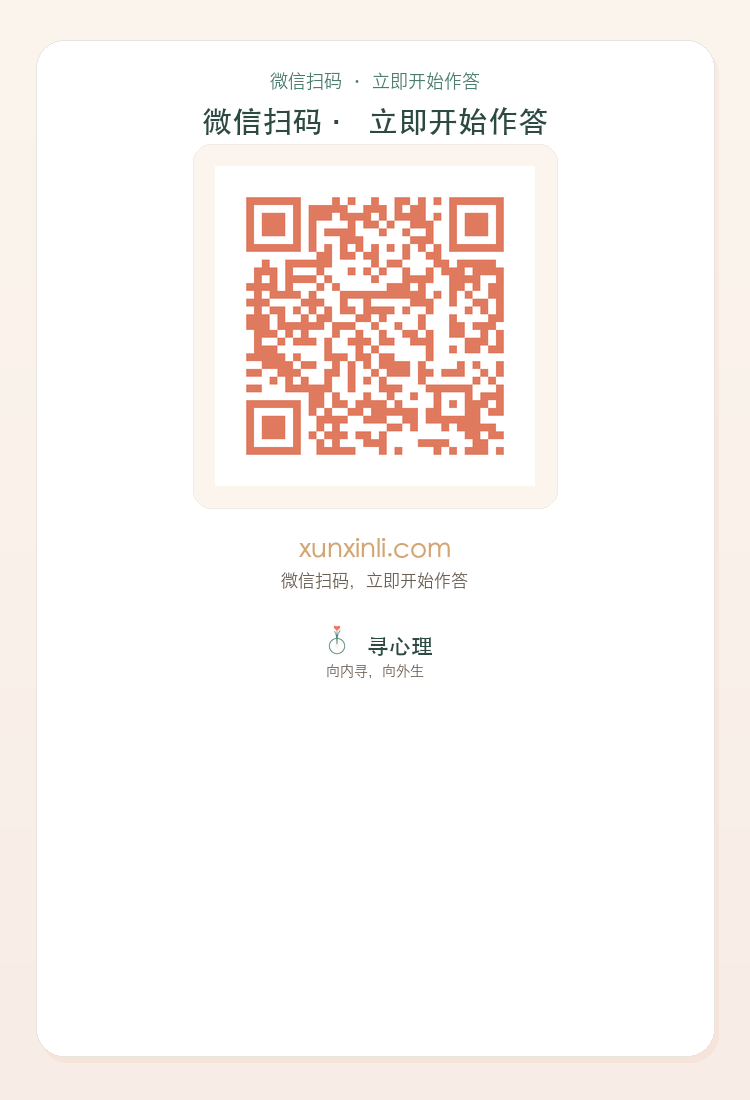
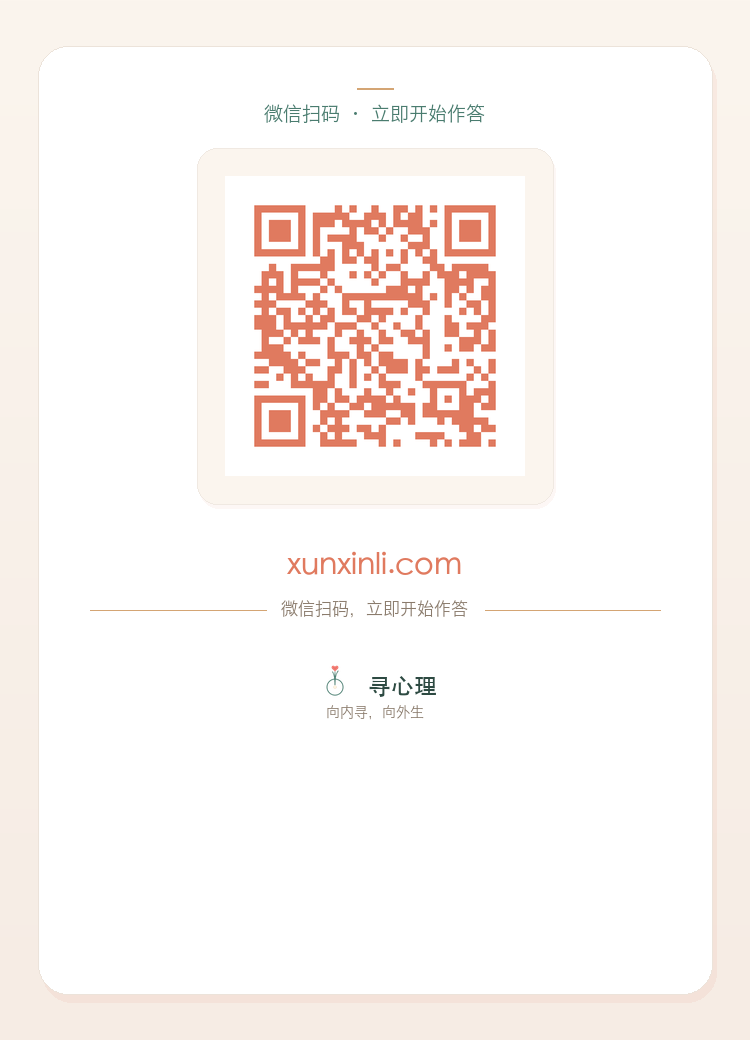
style: 海报v3 去重复标题 + 横线装饰 + 留白均衡
- 删除眉批下方重复的「微信扫码·立即开始作答」大标题
- 眉批上方加铜色短线装饰；提示区加两侧横线「—— 文字 ——」
- 域名改珊瑚暖橙#E07A5F（更温暖）；二维码底加微阴影
- 整体内容垂直居中于卡片内，留白均衡

diff --git a/gen_poster_final.py b/gen_poster_final.py
@@ -1,199 +1,151 @@
 #!/usr/bin/env python3
 """
-寻心理问卷海报图片 v2（PNG）
-布局参考 poster-survey-xunxinli.html 卡片式设计，文案按用户要求调整：
-  ① 眉批 → 「微信扫码 · 立即开始作答」（官网绿色）
-  ② 标题 → 「微信扫码 · 立即开始作答」（大字深色）
-  ③ 大二维码（圆角暖白底）
-  ④ 域名 → xunxinli.com（铜色加粗）
-  ⑤ 提示 → 微信扫码，立即开始作答（小灰字）
-  ⑥ 底部品牌区 → 小图标 + 寻心理 + 向内寻，向外生（无按钮）
+寻心理问卷海报 v3 —— 重新排版，协调好看
+- 去掉重复的大标题（第二行「微信扫码·立即开始作答」）
+- 保留：眉批(绿) / 大二维码 / 域名(珊瑚暖橙) / 提示(灰) / 底部品牌
+- 新增横向分隔线 + 居中装饰，整体留白均衡
+- 配色：官网绿 #4A7C6F + 珊瑚暖橙 #E07A5F + 铜 #D4A574 + 暖白
 """
 
 import os
-import math
 from PIL import Image, ImageDraw, ImageFont
 
-# ── 路径 ──
 BASE = "/Users/jinnan/WorkBuddy/2026-07-14-09-47-59"
 QR_PATH   = os.path.join(BASE, "survey/qr-survey-xunxinli.png")
-LOGO_ICON = os.path.join(BASE, "xunpsy-src/logo.png")       # 小图标（种子+爱心）
+LOGO_ICON = os.path.join(BASE, "xunpsy-src/logo.png")
 OUT_PATH  = os.path.join(BASE, "survey/poster-xunxinli-final.png")
 
-# ── 品牌色 ──
 def hex_rgb(h):
     h = h.lstrip("#")
     return tuple(int(h[i:i+2], 16) for i in (0, 2, 4))
 
-C_GREEN      = "#4A7C6F"   # 官网绿（眉批用）
-C_COPPER     = "#D4A574"   # 铜（域名）
-C_CORAL      = "#E89B7B"   # 珊瑚（按钮底色参考）
-C_TEXT_DARK  = "#2D4A42"   # 深文字（标题）
-C_TEXT_MID   = "#6B5E52"   # 中文字（提示）
-C_WARM_BG    = "#FBF5EE"   # 暖白渐变起
-C_WARM_BG2   = "#F8EDE6"   # 暖白渐变终
-C_WHITE      = "#FFFFFF"
-C_CARD_BG    = "#FFF9F5"   # 卡片内白
-C_QR_BG      = "#FBF5EE"   # 二维码底
-C_BORDER     = "#E8E4DF"
-C_SHADOW     = (224, 122, 95, 28)
+# 调色板
+C_GREEN   = "#4A7C6F"   # 眉批·绿
+C_CORAL   = "#E07A5F"   # 域名·珊瑚暖橙（温暖）
+C_COPPER  = "#D4A574"   # 装饰线·铜
+C_DARK    = "#2D4A42"   # 品牌字·深
+C_GRAY    = "#8A7B6C"   # 提示·灰
+C_WARM1   = "#FBF5EE"   # 背景渐变起
+C_WARM2   = "#F6ECE4"   # 背景渐变终
+C_CARD    = "#FFFFFF"
+C_QRBG    = "#FBF5EE"
+C_BORDER  = "#ECE3DA"
 
-# ── 画布：竖版卡片比例 ──
-W, H = 750, 1100
-
-# 渐变背景
-img = Image.new("RGB", (W, H), hex_rgb(C_WARM_BG))
+# ── 画布 ──
+W, H = 750, 1040
+img = Image.new("RGB", (W, H), hex_rgb(C_WARM1))
 draw = ImageDraw.Draw(img)
 for y in range(H):
     r = y / H
-    c1, c2 = hex_rgb(C_WARM_BG), hex_rgb(C_WARM_BG2)
-    col = tuple(int(c1[i] * (1 - r) + c2[i] * r) for i in range(3))
+    c1, c2 = hex_rgb(C_WARM1), hex_rgb(C_WARM2)
+    col = tuple(int(c1[i]*(1-r) + c2[i]*r) for i in range(3))
     draw.line([(0, y), (W, y)], fill=col)
 
-# ── 字体（Hiragino Sans GB / STHeiti 均支持中文）──
-FONT_MAIN = "/System/Library/Fonts/Hiragino Sans GB.ttc"
-FONT_BOLD = "/System/Library/Fonts/STHeiti Medium.ttc"
-try:
-    font_xs   = ImageFont.truetype(FONT_MAIN, 18)    # 眉批
-    font_lg   = ImageFont.truetype(FONT_BOLD, 30)    # 标题
-    font_md   = ImageFont.truetype(FONT_BOLD, 26)    # 域名
-    font_sm   = ImageFont.truetype(FONT_MAIN, 17)    # 提示
-    font_brand= ImageFont.truetype(FONT_BOLD, 22)    # 品牌「寻心理」
-    font_tag  = ImageFont.truetype(FONT_MAIN, 14)    # slogan
-except Exception:
-    font_xs = font_lg = font_md = font_sm = font_brand = font_tag = ImageFont.load_default()
+# ── 字体 ──
+F_MAIN  = "/System/Library/Fonts/Hiragino Sans GB.ttc"
+F_BOLD  = "/System/Library/Fonts/STHeiti Medium.ttc"
+font_eyebrow = ImageFont.truetype(F_MAIN, 19)
+font_domain  = ImageFont.truetype(F_BOLD, 30)
+font_tip     = ImageFont.truetype(F_MAIN, 17)
+font_brand   = ImageFont.truetype(F_BOLD, 23)
+font_slogan  = ImageFont.truetype(F_MAIN, 14)
 
-def txt_w(t, f):
-    b = draw.textbbox((0, 0), t, font=f)
-    return b[2] - b[0]
+def tw(t, f):
+    b = draw.textbbox((0,0), t, font=f)
+    return b[2]-b[0]
 
-def ctr(y, t, f, fill):
-    draw.text(((W - txt_w(t, f)) // 2, y), t, font=f, fill=fill)
+def ctext(y, t, f, fill):
+    draw.text(((W - tw(t, f))//2, y), t, font=f, fill=fill)
 
-# ══════════════════════════════
-# 白色圆角卡片（主体容器）
-# ══════════════════════════════
-card_pad_x = 36
-card_pad_top = 40
-card_pad_bottom = 44
-card_rx = 28
-card_x = card_pad_x
-card_y = card_pad_top
-card_w = W - card_pad_x * 2
-card_h = H - card_pad_top - card_pad_bottom
+# ── 白色圆角卡片 ──
+card_x, card_y = 38, 46
+card_w = W - card_x*2
+card_h = H - card_y*2
+card_r = 30
 
-# 卡片阴影层
-shadow_layer = Image.new("RGBA", (W, H), (0, 0, 0, 0))
-sd = ImageDraw.Draw(shadow_layer)
-sd.rounded_rectangle(
-    [card_x + 4, card_y + 6, card_x + card_w + 4, card_y + card_h + 6],
-    radius=card_rx,
-    fill=(224, 122, 95, 20)
-)
-img = Image.alpha_composite(img.convert("RGBA"), shadow_layer).convert("RGB")
+# 阴影
+sh = Image.new("RGBA", (W, H), (0,0,0,0))
+ImageDraw.Draw(sh).rounded_rectangle(
+    [card_x+4, card_y+8, card_x+card_w+4, card_y+card_h+8], radius=card_r,
+    fill=(224,122,95,22))
+img = Image.alpha_composite(img.convert("RGBA"), sh).convert("RGB")
 draw = ImageDraw.Draw(img)
-
-# 卡片本体
 draw.rounded_rectangle(
-    [card_x, card_y, card_x + card_w, card_y + card_h],
-    radius=card_rx,
-    fill=hex_rgb(C_WHITE),
-    outline=hex_rgb(C_BORDER),
-    width=1
-)
+    [card_x, card_y, card_x+card_w, card_y+card_h], radius=card_r,
+    fill=hex_rgb(C_CARD), outline=hex_rgb(C_BORDER), width=1)
 
-cx = card_x + card_w // 2  # 卡片中心 X
+ix = card_x + card_w//2   # 卡片水平中心
 
-# ══════════════════════════════
-# ① 眉批：微信扫码 · 立即开始作答（绿色小字）
-# ══════════════════════════════
-y = card_y + 32
-ctr(y, "微信扫码 · 立即开始作答", font_xs, hex_rgb(C_GREEN))
+# ══════════════════════════════════
+# ① 眉批（绿）+ 上方小装饰短线
+# ══════════════════════════════════
+y = card_y + 58
+# 小装饰短线（铜色，居中，8px 宽）
+draw.line([(ix-18, y-16), (ix+18, y-16)], fill=hex_rgb(C_COPPER), width=2)
+ctext(y, "微信扫码 · 立即开始作答", font_eyebrow, hex_rgb(C_GREEN))
 
-# ══════════════════════════════
-# ② 标题：微信扫码 · 立即开始作答（大字深色）
-# ══════════════════════════════
-y += 34
-ctr(y, "微信扫码 · 立即开始作答", font_lg, hex_rgb(C_TEXT_DARK))
+# ══════════════════════════════════
+# ② 大二维码
+# ══════════════════════════════════
+qr = Image.open(QR_PATH).convert("RGBA")
+QR = 300
+qr_r = qr.resize((QR, QR), Image.LANCZOS)
+pad = 28
+bg_w = QR + pad*2
+bg_h = QR + pad*2
+bg_x = ix - bg_w//2
+bg_y = y + 44
 
-# ══════════════════════════════
-# ③ 大二维码区域
-# ══════════════════════════════
-qr_img = Image.open(QR_PATH).convert("RGBA")
-QR_SIZE = 320
-qr_resized = qr_img.resize((QR_SIZE, QR_SIZE), Image.LANCZOS)
-
-pad_qr = 22
-qr_bg_w = QR_SIZE + pad_qr * 2
-qr_bg_h = QR_SIZE + pad_qr * 2
-qr_bg_x = cx - qr_bg_w // 2
-qr_bg_y = y + 38
-
-# 圆角二维码底
-qr_layer = Image.new("RGBA", (W, H), (0, 0, 0, 0))
-qd = ImageDraw.Draw(qr_layer)
-qd.rounded_rectangle(
-    [qr_bg_x, qr_bg_y, qr_bg_x + qr_bg_w, qr_bg_y + qr_bg_h],
-    radius=18,
-    fill=hex_rgb(C_QR_BG) + (255,),
-    outline=hex_rgb(C_BORDER) + (180,),
-    width=1
-)
-img = Image.alpha_composite(img.convert("RGBA"), qr_layer).convert("RGB")
-
-# 贴二维码
-qr_paste_x = qr_bg_x + pad_qr
-qr_paste_y = qr_bg_y + pad_qr
-if qr_resized.mode == "RGBA":
-    img.paste(qr_resized, (qr_paste_x, qr_paste_y), qr_resized)
-else:
-    img.paste(qr_resized, (qr_paste_x, qr_paste_y))
-
+# 二维码底（圆角 + 细微阴影）
+ql = Image.new("RGBA", (W, H), (0,0,0,0))
+qd = ImageDraw.Draw(ql)
+qd.rounded_rectangle([bg_x+2, bg_y+4, bg_x+bg_w+2, bg_y+bg_h+4], radius=20,
+                     fill=(224,122,95,16))
+qd.rounded_rectangle([bg_x, bg_y, bg_x+bg_w, bg_y+bg_h], radius=20,
+                     fill=hex_rgb(C_QRBG)+(255,), outline=hex_rgb(C_BORDER)+(200,), width=1)
+img = Image.alpha_composite(img.convert("RGBA"), ql).convert("RGB")
 draw = ImageDraw.Draw(img)
+img.paste(qr_r, (bg_x+pad, bg_y+pad), qr_r)
 
-# ══════════════════════════════
-# ④ 域名：xunxinli.com（铜色加粗）
-# ══════════════════════════════
-domain_y = qr_bg_y + qr_bg_h + 28
-ctr(domain_y, "xunxinli.com", font_md, hex_rgb(C_COPPER))
+# ══════════════════════════════════
+# ③ 域名（珊瑚暖橙）
+# ══════════════════════════════════
+y_domain = bg_y + bg_h + 46
+ctext(y_domain, "xunxinli.com", font_domain, hex_rgb(C_CORAL))
 
-# ══════════════════════════════
-# ⑤ 提示：微信扫码，立即开始作答（小灰字）
-# ══════════════════════════════
-tip_y = domain_y + 36
-ctr(tip_y, "微信扫码，立即开始作答", font_sm, hex_rgb(C_TEXT_MID))
+# ══════════════════════════════════
+# ④ 提示（灰）+ 两侧横线装饰
+# ══════════════════════════════════
+y_tip = y_domain + 50
+tip = "微信扫码，立即开始作答"
+margin = 90
+line_gap = 16
+t_w = tw(tip, font_tip)
+t_x = ix - t_w//2
+# 左线
+draw.line([(margin, y_tip+10), (t_x-line_gap, y_tip+10)], fill=hex_rgb(C_COPPER), width=1)
+# 右线
+draw.line([(t_x+t_w+line_gap, y_tip+10), (W-margin, y_tip+10)], fill=hex_rgb(C_COPPER), width=1)
+ctext(y_tip, tip, font_tip, hex_rgb(C_GRAY))
 
-# ══════════════════════════════
-# ⑥ 底部品牌区：小图标 + 寻心理 + 向内寻，向外生
-# ══════════════════════════════
-brand_y = tip_y + 52
-
-# 加载小图标
+# ══════════════════════════════════
+# ⑤ 底部品牌区
+# ══════════════════════════════════
+y_brand = y_tip + 64
 icon = Image.open(LOGO_ICON).convert("RGBA")
-ICON_SIZE = 40
-icon_resized = icon.resize((ICON_SIZE, ICON_SIZE), Image.LANCZOS)
-
-# 计算总宽度居中
-brand_text_w = txt_w("寻心理", font_brand)
-total_brand_w = ICON_SIZE + 10 + brand_text_w
-brand_start_x = cx - total_brand_w // 2
-
-# 贴图标
-img.paste(icon_resized, (brand_start_x, brand_y), icon_resized)
+IS = 42
+icon_r = icon.resize((IS, IS), Image.LANCZOS)
+brand_w = tw("寻心理", font_brand)
+group_w = IS + 12 + brand_w
+gx = ix - group_w//2
+img.paste(icon_r, (gx, y_brand), icon_r)
 draw = ImageDraw.Draw(img)
+ty = y_brand + (IS - 24)//2 + 1
+draw.text((gx+IS+12, ty), "寻心理", font=font_brand, fill=hex_rgb(C_DARK))
 
-# 「寻心理」文字（与图标基线对齐，略下移视觉居中）
-text_offset_y = brand_y + (ICON_SIZE - 22) // 2 + 2
-draw.text((brand_start_x + ICON_SIZE + 10, text_offset_y), "寻心理",
-          font=font_brand, fill=hex_rgb(C_TEXT_DARK))
+y_slogan = ty + 30
+ctext(y_slogan, "向内寻，向外生", font_slogan, hex_rgb(C_GRAY))
 
-# slogan 小字
-slogan_y = text_offset_y + 28
-ctr(slogan_y, "向内寻，向外生", font_tag, hex_rgb(C_TEXT_MID))
-
-# ══════════════════════════════
-# 保存
-# ══════════════════════════════
 img.save(OUT_PATH, "PNG", quality=95)
-print(f"✅ 海报已生成: {OUT_PATH}")
-print(f"   尺寸: {W}×{H}px | 大小: {os.path.getsize(OUT_PATH)/1024:.1f} KB")
+print(f"✅ 海报 v3 已生成: {OUT_PATH}")
+print(f"   尺寸 {W}×{H}px | {os.path.getsize(OUT_PATH)/1024:.1f} KB")
